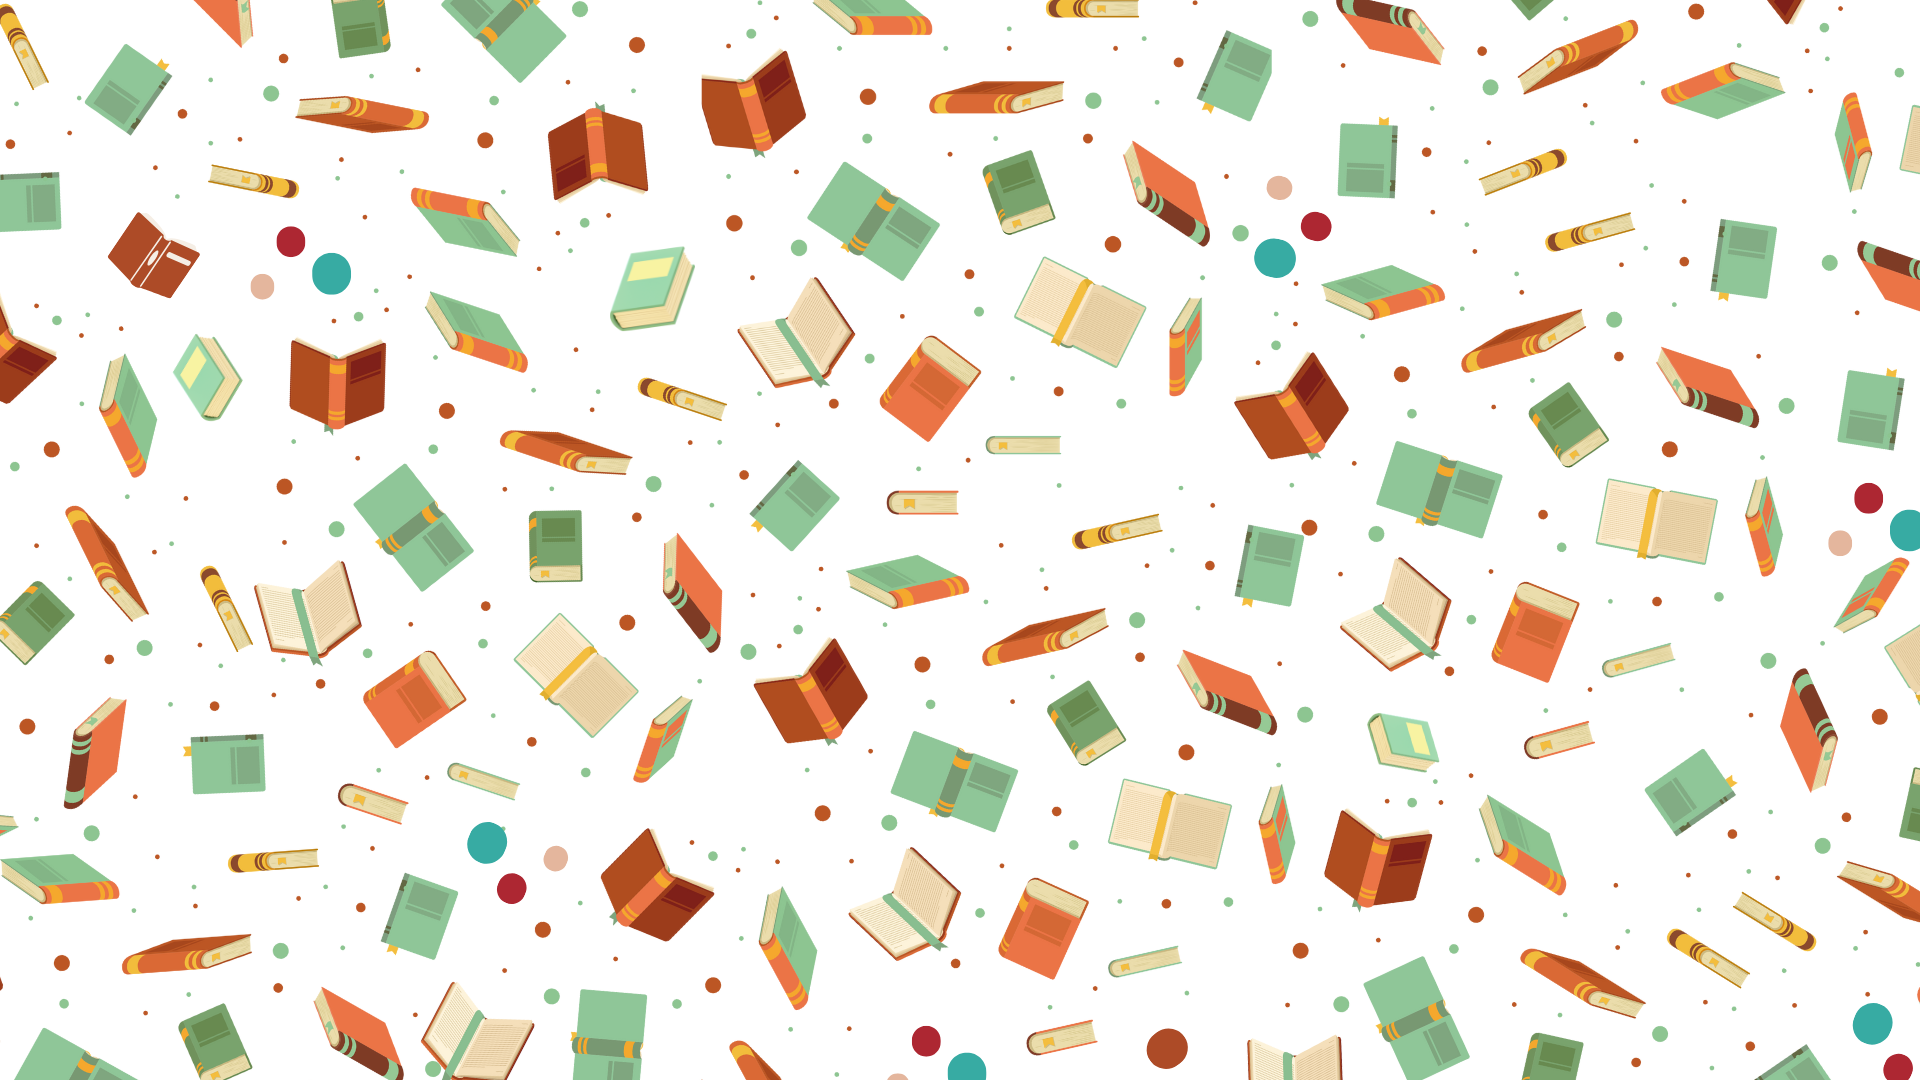
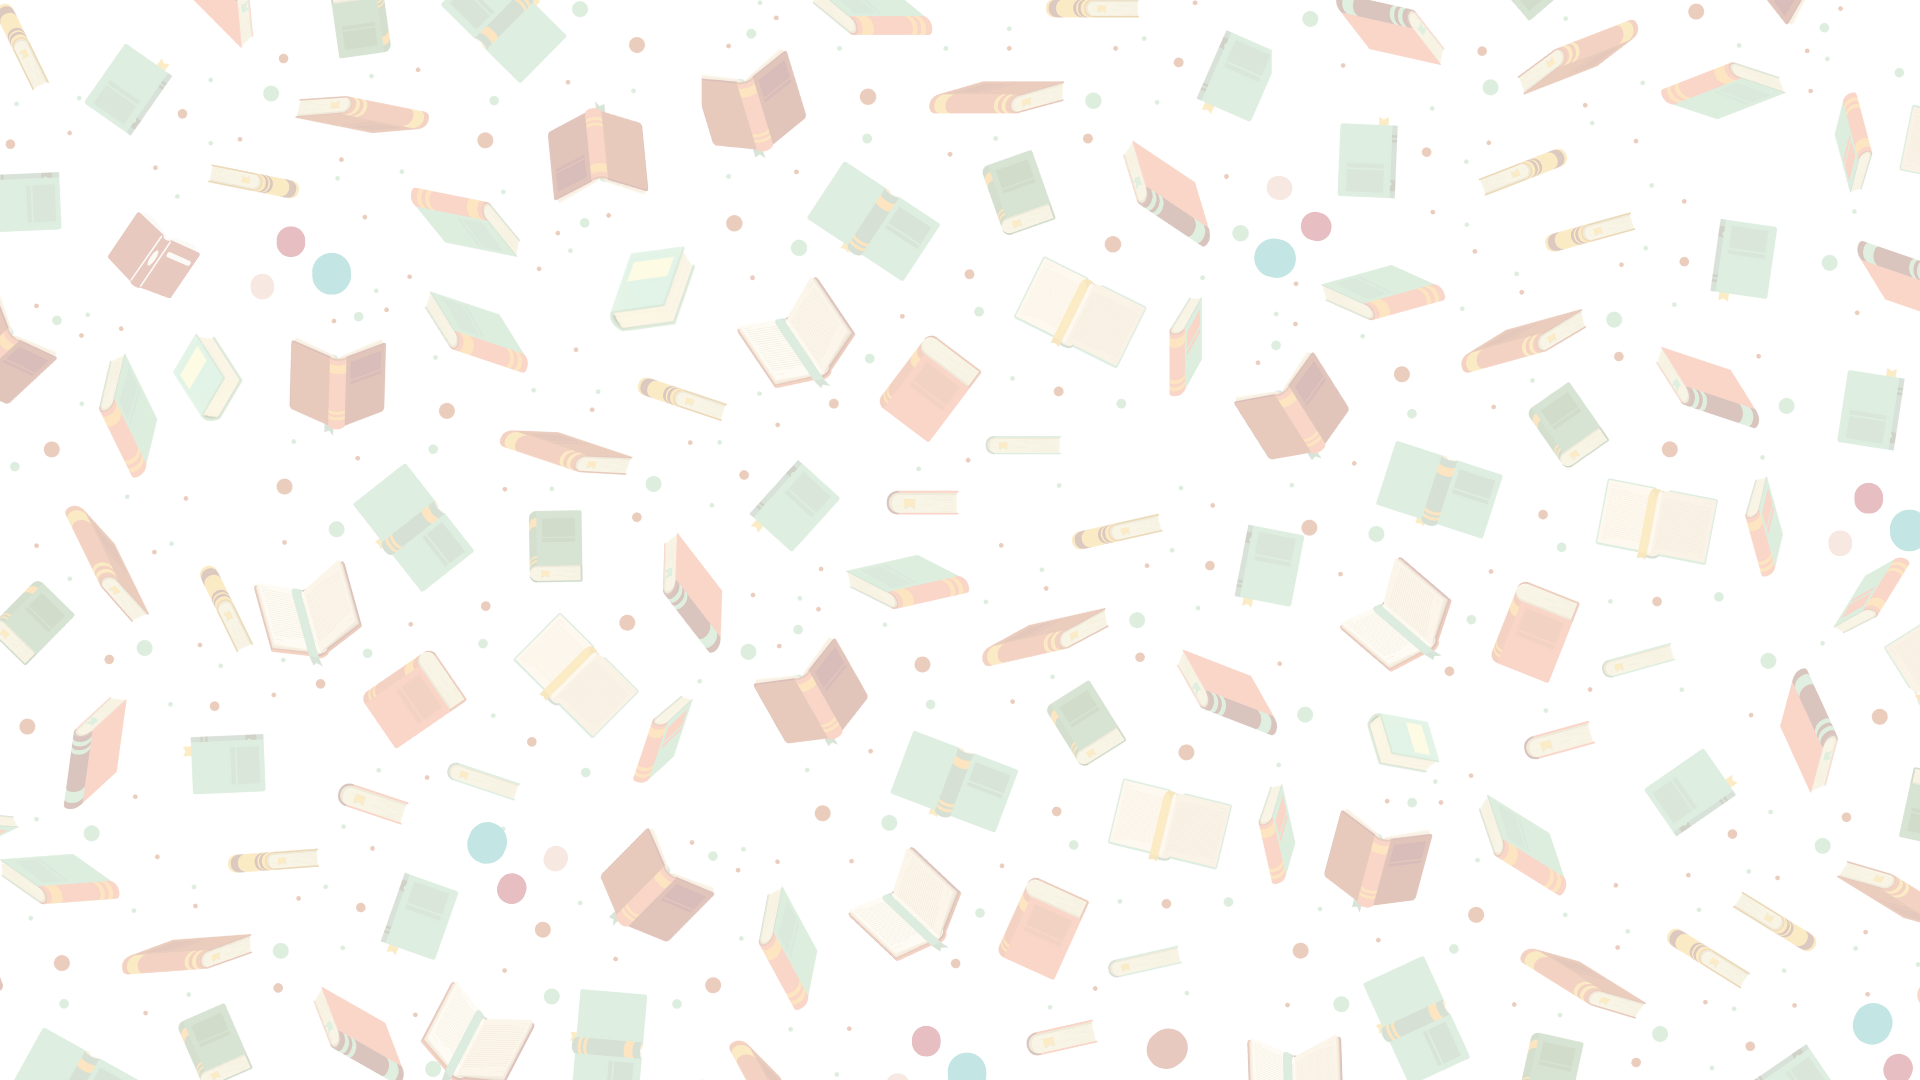
Fixed navbar expand + added connected pages

diff --git a/book-catalogue/app.js b/book-catalogue/app.js
@@ -1,27 +1,25 @@
 $(document).ready(function(){
-    var item, title, author, publisher, bookLink, bookImg
-    var outputList = document.getElementById('list-output')
-    var bookUrl = "https://www.googleapis.com/books/v1/volumes?q="
-    var placeHldr = '<img src="https://via.placeholder.com/150">'
+    var item, title, author, publisher, bookLink, bookImg;
+    var outputList = document.getElementById('list-output');
+    var bookUrl = "https://openlibrary.org/search.json?q=";
+    var placeHldr = '<img src="./assets/placeholder.jpg" alt="Book Cover">';
     var searchData;
 
-    //Listener for Search Button
     $("#search").click(function(){
-        outputList.innerHTML = ""
+        outputList.innerHTML = "";
         searchData = $("#search-box").val();
 
-        //Empty search input
         if(searchData === "" || searchData === null){
             displayError();
         }
         else{
             $.ajax({
-                url: bookUrl + searchData,
+                url: bookUrl + searchData + "&limit=10",
                 dataType: "json",
                 success: function(response){
-                    console.log(response)
-                    if(response.totalItem === 0){
-                        alert("No results! Try again.")
+                    console.log(response);
+                    if(response.num_found === 0){
+                        alert("No results! Try again.");
                     }
                     else{
                         $("#title").animate({'margin-top': '5px'}, 1000);
@@ -30,75 +28,72 @@ $(document).ready(function(){
                     }
                 },
                 error: function(){
-                    alert("Something went wrong...<br>Try again!")
+                    alert("Something went wrong...<br>Try again!");
                 }
-            })
+            });
         }
         $("#search-box").val("");
-    })
+    });
 
     function displayResults(response) {
-        for (var i = 0; i < response.items.length; i += 2) {
-            item = response.items[i];
-            title1 = item.volumeInfo.title || "No Title Available";
-            author1 = item.volumeInfo.authors || "Unknown Author";
-            publisher1 = item.volumeInfo.publisher || "Unknown Publisher";
-            bookLink1 = item.volumeInfo.previewLink || "#";
-            bookIsbn1 = (item.volumeInfo.industryIdentifiers && item.volumeInfo.industryIdentifiers[1]) 
-                        ? item.volumeInfo.industryIdentifiers[1].identifier 
-                        : "ISBN Not Available";
-            bookImg1 = (item.volumeInfo.imageLinks) ? item.volumeInfo.imageLinks.thumbnail : placeHldr;
-    
-            // Check if there's a second item in the pair
-            if (i + 1 < response.items.length) {
-                item2 = response.items[i + 1];
-                title2 = item2.volumeInfo.title || "No Title Available";
-                author2 = item2.volumeInfo.authors || "Unknown Author";
-                publisher2 = item2.volumeInfo.publisher || "Unknown Publisher";
-                bookLink2 = item2.volumeInfo.previewLink || "#";
-                bookIsbn2 = (item2.volumeInfo.industryIdentifiers && item2.volumeInfo.industryIdentifiers[1]) 
-                            ? item2.volumeInfo.industryIdentifiers[1].identifier 
-                            : "ISBN Not Available";
-                bookImg2 = (item2.volumeInfo.imageLinks) ? item2.volumeInfo.imageLinks.thumbnail : placeHldr;
+        const docs = response.docs;
+        for (let i = 0; i < docs.length; i += 2) {
+            let item1 = docs[i];
+            let title1 = item1.title || "No Title Available";
+            let author1 = item1.author_name ? item1.author_name.join(", ") : "Unknown Author";
+            let publisher1 = item1.publisher ? item1.publisher.join(", ") : "Unknown Publisher";
+            let bookLink1 = "https://openlibrary.org" + item1.key || "#";
+            let bookImg1 = item1.cover_i 
+                            ? `https://covers.openlibrary.org/b/id/${item1.cover_i}-M.jpg` 
+                            : placeHldr;
+
+            let title2, author2, publisher2, bookLink2, bookImg2;
+            if (i + 1 < docs.length) {
+                let item2 = docs[i + 1];
+                title2 = item2.title || "No Title Available";
+                author2 = item2.author_name ? item2.author_name.join(", ") : "Unknown Author";
+                publisher2 = item2.publisher ? item2.publisher.join(", ") : "Unknown Publisher";
+                bookLink2 = "https://openlibrary.org" + item2.key || "#";
+                bookImg2 = item2.cover_i 
+                            ? `https://covers.openlibrary.org/b/id/${item2.cover_i}-M.jpg` 
+                            : placeHldr;
             } else {
-                // Empty placeholders for the second column if no more items
-                title2 = author2 = publisher2 = bookLink2 = bookIsbn2 = "N/A";
+                title2 = author2 = publisher2 = bookLink2 = "N/A";
                 bookImg2 = placeHldr;
             }
-    
+
             outputList.innerHTML += '<div class="row mt-4">' +
-                                    formatOutput(bookImg1, title1, author1, publisher1, bookLink1, bookIsbn1) +
-                                    formatOutput(bookImg2, title2, author2, publisher2, bookLink2, bookIsbn2) +
+                                    formatOutput(bookImg1, title1, author1, publisher1, bookLink1) +
+                                    formatOutput(bookImg2, title2, author2, publisher2, bookLink2) +
                                     '</div>';
         }
     }
-    
 
-     function formatOutput(bookImg, title, author, publisher, bookLink, bookIsbn) {
-        var viewUrl = 'book.html?isbn='+bookIsbn;
+    function formatOutput(bookImg, title, author, publisher, bookLink) {
+        var placeholder = './assets/images/placeholder.jpeg';
+        var imageSrc = bookImg || placeholder;
+    
         var htmlCard = `<div class="col-lg-6">
-          <div class="card" style="">
-            <div class="row no-gutters">
-              <div class="col-md-4">
-                <img src="${bookImg}" class="card-img" alt="...">
-              </div>
-              <div class="col-md-8">
-                <div class="card-body">
-                  <h5 class="card-title">${title}</h5>
-                  <p class="card-text">Author: ${author}</p>
-                  <p class="card-text">Publisher: ${publisher}</p>
-                  <a target="_blank" href="${viewUrl}" class="btn btn-secondary">Read Book</a>
+              <div class="card">
+                <div class="row no-gutters">
+                  <div class="col-md-4">
+                    <img src="${imageSrc}" class="card-img" alt="Book Cover">
+                  </div>
+                  <div class="col-md-8">
+                    <div class="card-body">
+                      <h5 class="card-title">${title}</h5>
+                      <p class="card-text">Author: ${author}</p>
+                      <p class="card-text">Publisher: ${publisher}</p>
+                      <a target="_blank" href="${bookLink}" class="btn btn-secondary">View Book</a>
+                    </div>
+                  </div>
                 </div>
               </div>
-            </div>
-          </div>
-        </div>`
+            </div>`;
         return htmlCard;
-      }
-   
-      //handling error for empty search box
-      function displayError() {
-        alert("Search term can not be empty!")
-      }
-   
+    }
+
+    function displayError() {
+        alert("Search term cannot be empty!");
+    }
 });

diff --git a/book-catalogue/index.html b/book-catalogue/index.html
@@ -3,11 +3,40 @@
 <head>
     <meta charset="UTF-8">
     <meta name="viewport" content="width=device-width, initial-scale=1.0">
+    <link href="https://cdn.jsdelivr.net/npm/bootstrap@5.3.3/dist/css/bootstrap.min.css" 
+          rel="stylesheet" 
+          integrity="sha384-QWTKZyjpPEjISv5WaRU9OFeRpok6YctnYmDr5pNlyT2bRjXh0JMhjY6hW+ALEwIH" 
+          crossorigin="anonymous">
+      <script src="https://cdn.jsdelivr.net/npm/bootstrap@5.3.0-alpha1/dist/js/bootstrap.bundle.min.js"></script>
     <title>Book Finder</title>
 </head>
 <body>
+    <nav class="navbar navbar-expand-lg navbar-light bg-light">
+        <a class="navbar-brand" href="#">BookCatalogue</a>
+        <button class="navbar-toggler" type="button" data-bs-toggle="collapse" data-bs-target="#navbarSupportedContent" aria-controls="navbarSupportedContent" aria-expanded="false" aria-label="Toggle navigation">
+          <span class="navbar-toggler-icon"></span>
+        </button>
+      
+        <div class="collapse navbar-collapse" id="navbarSupportedContent">
+          <ul class="navbar-nav mr-auto">
+            <li class="nav-item active">
+              <a class="nav-link" href="./index.html">Home</a>
+            </li>
+            <li class="nav-item">
+              <a class="nav-link" href="./public/about.html">About</a>
+            </li>
+            <li class="nav-item">
+              <a class="nav-link" href="./public/random.html">Random Book</a>
+            </li>
+            <li class="nav-item">
+                <a class="nav-link" href="./public/author.html">Author Search</a>
+              </li>
+          </ul>
+        </div>
+      </nav>
+
     <div class="container">
-        <h1 id="title" class="text-center mt-5">Book Finder</dih1v>
+        <h1 id="title" class="text-center mt-5">Find your book!</h1>
         <div class="row">
             <div id="input" class="input-group mx-auto col-lg-6 col-md-8 col-sm-12">
                 <input id="search-box" type="text" class="form-control" placeholder="Search...">
@@ -23,20 +52,18 @@
             </div>
         </div>
 
-    <!--Bootstrap integration-->    
-    <link rel="stylesheet" 
-    href="https://cdn.jsdelivr.net/npm/bootstrap@4.4.1/dist/css/bootstrap.min.css" 
-    integrity="sha384-Vkoo8x4CGsO3+Hhxv8T/Q5PaXtkKtu6ug5TOeNV6gBiFeWPGFN9MuhOf23Q9Ifjh" 
-    crossorigin="anonymous">
-    <!--Personal CSS-->
+    <!--JQuery integration-->  
+    <script src="https://code.jquery.com/jquery-3.6.0.min.js"></script>
+    
+    <!--CSS-->
     <link rel="stylesheet" type="text/css" href="./style.css">
-    <link rel="preconnect" href="https://fonts.googleapis.com">
-    <!--Google fonts used-->
-    <link rel="preconnect" href="https://fonts.gstatic.com" crossorigin>
     <link href="https://fonts.googleapis.com/css2?family=Work+Sans:ital,wght@0,100..900;1,100..900&display=swap" rel="stylesheet">
     
+    <!--Google fonts used-->
+    <link rel="preconnect" href="https://fonts.googleapis.com">
+    <link rel="preconnect" href="https://fonts.gstatic.com" crossorigin>
+    
     <!--Scripts-->
-    <script src="https://code.jquery.com/jquery-3.6.0.min.js"></script>
     <script src="./app.js"></script>
 </body>
 </html>

diff --git a/book-catalogue/public/about.html b/book-catalogue/public/about.html
@@ -1,0 +1,41 @@
+<!DOCTYPE html>
+<html lang="en">
+<head>
+    <meta charset="UTF-8">
+    <meta name="viewport" content="width=device-width, initial-scale=1.0">
+    <link href="https://cdn.jsdelivr.net/npm/bootstrap@5.3.3/dist/css/bootstrap.min.css" 
+          rel="stylesheet" 
+          integrity="sha384-QWTKZyjpPEjISv5WaRU9OFeRpok6YctnYmDr5pNlyT2bRjXh0JMhjY6hW+ALEwIH" 
+          crossorigin="anonymous">
+      <script src="https://cdn.jsdelivr.net/npm/bootstrap@5.3.0-alpha1/dist/js/bootstrap.bundle.min.js"></script>
+    <title>About</title>
+</head>
+<body>
+    <nav class="navbar navbar-expand-lg navbar-light bg-light">
+        <a class="navbar-brand" href="#">BookCatalogue</a>
+        <button class="navbar-toggler" type="button" data-bs-toggle="collapse" data-bs-target="#navbarSupportedContent" aria-controls="navbarSupportedContent" aria-expanded="false" aria-label="Toggle navigation">
+          <span class="navbar-toggler-icon"></span>
+        </button>
+      
+        <div class="collapse navbar-collapse" id="navbarSupportedContent">
+          <ul class="navbar-nav mr-auto">
+            <li class="nav-item">
+              <a class="nav-link" href="../index.html">Home</a>
+            </li>
+            <li class="nav-item active">
+              <a class="nav-link" href="./about.html">About</a>
+            </li>
+            <li class="nav-item">
+              <a class="nav-link" href="./random.html">Random Book</a>
+            </li>
+            <li class="nav-item">
+                <a class="nav-link" href="./author.html">Author Search</a>
+              </li>
+          </ul>
+        </div>
+    </nav>
+
+    <!--Personal CSS-->
+    <link rel="stylesheet" type="text/css" href="./style.css">
+</body>
+</html>

diff --git a/book-catalogue/public/author.html b/book-catalogue/public/author.html
@@ -1,0 +1,40 @@
+<!DOCTYPE html>
+<html lang="en">
+<head>
+    <meta charset="UTF-8">
+    <meta name="viewport" content="width=device-width, initial-scale=1.0">
+    <link href="https://cdn.jsdelivr.net/npm/bootstrap@5.3.3/dist/css/bootstrap.min.css" 
+          rel="stylesheet" 
+          integrity="sha384-QWTKZyjpPEjISv5WaRU9OFeRpok6YctnYmDr5pNlyT2bRjXh0JMhjY6hW+ALEwIH" 
+          crossorigin="anonymous">
+      <script src="https://cdn.jsdelivr.net/npm/bootstrap@5.3.0-alpha1/dist/js/bootstrap.bundle.min.js"></script>
+    <title>Search By Author</title>
+</head>
+<body>
+    <nav class="navbar navbar-expand-lg navbar-light bg-light">
+        <a class="navbar-brand" href="#">BookCatalogue</a>
+        <button class="navbar-toggler" type="button" data-bs-toggle="collapse" data-bs-target="#navbarSupportedContent" aria-controls="navbarSupportedContent" aria-expanded="false" aria-label="Toggle navigation">
+            <span class="navbar-toggler-icon"></span>
+        </button>
+      
+        <div class="collapse navbar-collapse" id="navbarSupportedContent">
+          <ul class="navbar-nav mr-auto">
+            <li class="nav-item">
+              <a class="nav-link" href="../index.html">Home</a>
+            </li>
+            <li class="nav-item">
+              <a class="nav-link" href="./about.html">About</a>
+            </li>
+            <li class="nav-item">
+              <a class="nav-link" href="./random.html">Random Book</a>
+            </li>
+            <li class="nav-item active">
+                <a class="nav-link" href="./author.html">Author Search</a>
+              </li>
+          </ul>
+        </div>
+    </nav>
+
+    <link rel="stylesheet" type="text/css" href="./style.css">
+</body>
+</html>

diff --git a/book-catalogue/public/random.html b/book-catalogue/public/random.html
@@ -1,0 +1,40 @@
+<!DOCTYPE html>
+<html lang="en">
+<head>
+    <meta charset="UTF-8">
+    <meta name="viewport" content="width=device-width, initial-scale=1.0">
+    <link href="https://cdn.jsdelivr.net/npm/bootstrap@5.3.3/dist/css/bootstrap.min.css" 
+          rel="stylesheet" 
+          integrity="sha384-QWTKZyjpPEjISv5WaRU9OFeRpok6YctnYmDr5pNlyT2bRjXh0JMhjY6hW+ALEwIH" 
+          crossorigin="anonymous">
+      <script src="https://cdn.jsdelivr.net/npm/bootstrap@5.3.0-alpha1/dist/js/bootstrap.bundle.min.js"></script>
+    <title>Random Book</title>
+</head>
+<body>
+    <nav class="navbar navbar-expand-lg navbar-light bg-light">
+        <a class="navbar-brand" href="#">BookCatalogue</a>
+        <button class="navbar-toggler" type="button" data-bs-toggle="collapse" data-bs-target="#navbarSupportedContent" aria-controls="navbarSupportedContent" aria-expanded="false" aria-label="Toggle navigation">
+            <span class="navbar-toggler-icon"></span>
+        </button>
+      
+        <div class="collapse navbar-collapse" id="navbarSupportedContent">
+          <ul class="navbar-nav mr-auto">
+            <li class="nav-item">
+              <a class="nav-link" href="../index.html">Home</a>
+            </li>
+            <li class="nav-item">
+              <a class="nav-link" href="./about.html">About</a>
+            </li>
+            <li class="nav-item active">
+              <a class="nav-link" href="./random.html">Random Book</a>
+            </li>
+            <li class="nav-item">
+                <a class="nav-link" href="./author.html">Author Search</a>
+              </li>
+          </ul>
+        </div>
+    </nav>
+
+    <link rel="stylesheet" type="text/css" href="./style.css">
+</body>
+</html>

diff --git a/book-catalogue/style.css b/book-catalogue/style.css
@@ -1,16 +1,10 @@
-/* body {
-    background: linear-gradient(rgba(255, 255, 255, 0.5), rgba(255, 255, 255, 0.5)),
-                url("./assets/images/background.png");
-    background-size: cover;
-    background-blend-mode: overlay;
-} */
-
 body {
-    background-image: url("./assets/images/background2.png");
+    /* background-image: url("./assets/images/background.png"); */
+    background-color: antiquewhite;
     height: 100%;
     background-position: center;
-    background-repeat:repeat;
-    background-size: cover;
+    background-repeat: space repeat;
+    background-size: stretch;
 }
 
 h1,h2{
